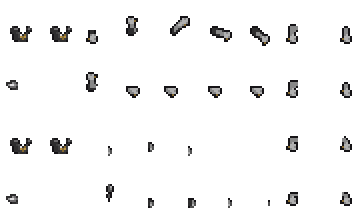
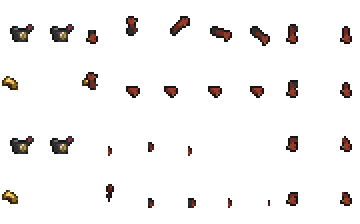
Updated Xyk's Blessing sprites
Okay I deselected the two other changes so they better not be in this commit...

diff --git a/Items/Accessories/Vanity/XyksBlessingOrange.cs b/Items/Accessories/Vanity/XyksBlessingOrange.cs
@@ -14,7 +14,7 @@ namespace CalamityMod.Items.Accessories.Vanity
         {
             if (!Main.dedServ)
             {
-                EquipLoader.AddEquipTexture(Mod, "CalamityMod/Items/Accessories/Vanity/Xyk_Head", EquipType.Head, this);
+                EquipLoader.AddEquipTexture(Mod, "CalamityMod/Items/Accessories/Vanity/Xyk_Head2", EquipType.Head, this);
                 EquipLoader.AddEquipTexture(Mod, "CalamityMod/Items/Accessories/Vanity/Xyk_Body2", EquipType.Body, this);
                 EquipLoader.AddEquipTexture(Mod, "CalamityMod/Items/Accessories/Vanity/Xyk_Legs2", EquipType.Legs, this);
             }
@@ -86,6 +86,7 @@ namespace CalamityMod.Items.Accessories.Vanity
             {
                 Player.legs = EquipLoader.GetEquipSlot(Mod, "XyksBlessingOrange", EquipType.Legs);
                 Player.body = EquipLoader.GetEquipSlot(Mod, "XyksBlessingOrange", EquipType.Body);
+                Player.head = EquipLoader.GetEquipSlot(Mod, "XyksBlessingOrange", EquipType.Head);
             }
         }
     }
